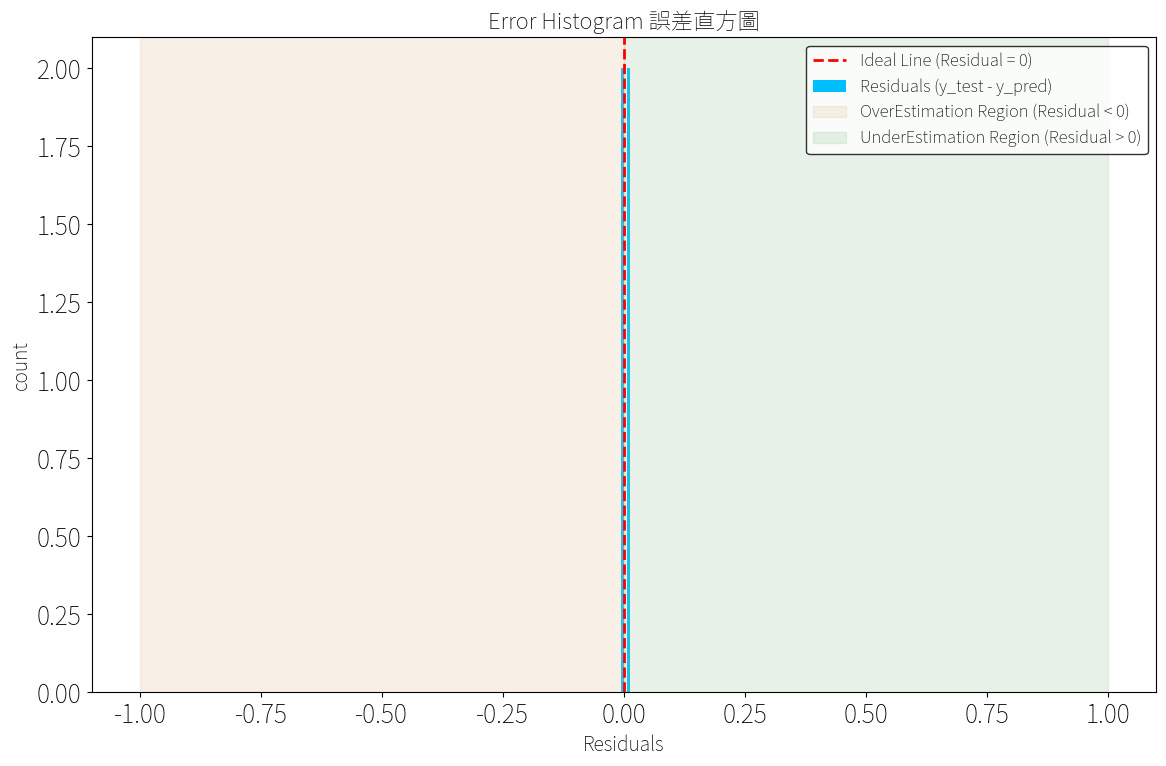
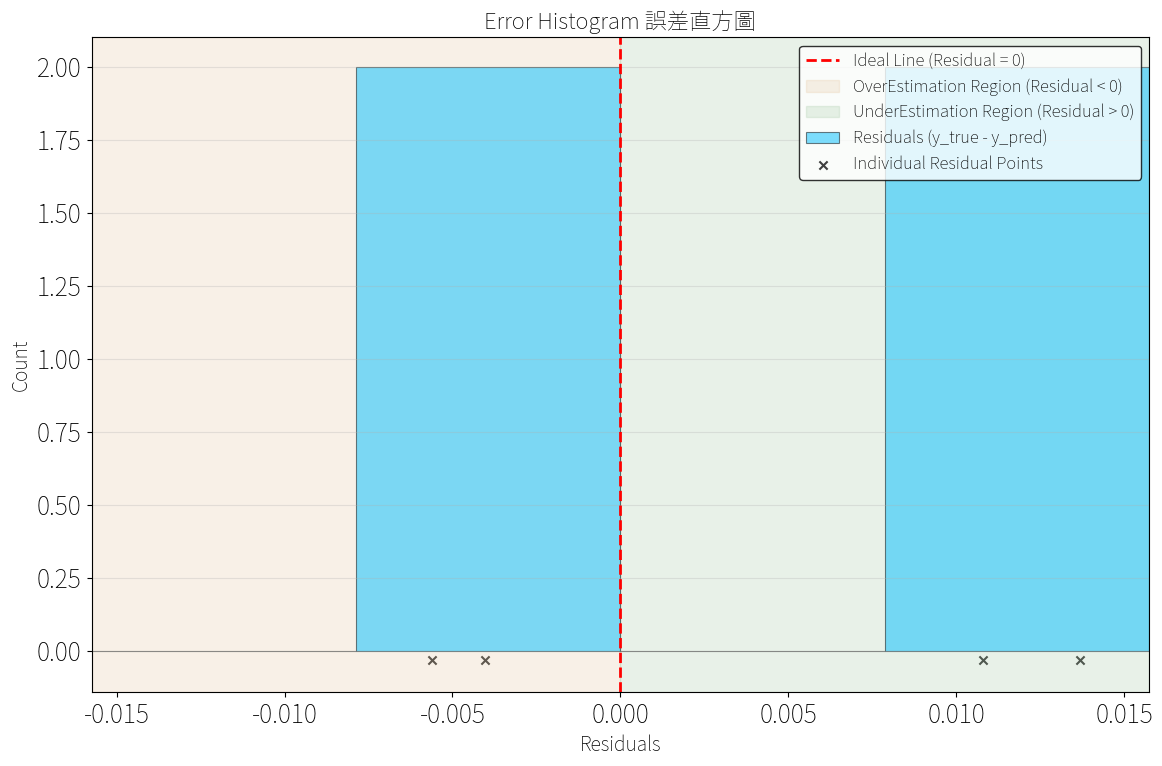
2026/06/09 generate_original_metrics_from_model.py ＝讀取既有模型後，重新輸出圖表、normalized metrics、original-scale metrics、prediction_compare.csv save.py ＝統一處理圖表、log.txt、metrics_original_scale.txt、prediction_compare.csv

diff --git a/utils/save.py b/utils/save.py
@@ -278,22 +278,31 @@ def ErrorHistogram(y_test_time: np.array, y_pred_test_time: np.array, out_dir: s
     residuals = y_true - y_pred # 計算殘差：正值代表模型低估，負值代表模型高估
     r_min = np.nanmin(residuals)
     r_max = np.nanmax(residuals)
-    # 加一點 margin，並確保 0 被包含進顯示範圍
+    # # 以 0 為中心建立對稱範圍，讓圖比較穩定好讀；加一點 margin，並確保 0 被包含進顯示範圍
     r_abs_max = max(abs(r_min), abs(r_max))
-    margin = r_abs_max * 0.1 if r_abs_max > 0 else 0.1
-    axis_min = min(r_min - margin, -margin)
-    axis_max = max(r_max + margin, margin)
-    plt.hist(residuals, bins='auto', color='deepskyblue', label='Residuals (y_true - y_pred)') # 柱狀圖，並讓Matplotlib自動計算bins區間。
-    plt.axvline(x=0, color='red', linestyle='--', linewidth=2, label='Ideal Line (Residual = 0)') # 基準線，加一條紅色的垂直基準線，位於Residual為0的地方。
+    margin = r_abs_max * 0.15 if r_abs_max > 0 else 0.1
+    axis_min = -r_abs_max - margin
+    axis_max = r_abs_max + margin
+    # 小樣本時不要用 bins='auto'，改用固定數量
+    n = len(residuals)
+    bin_count = max(5, min(12, n + 1))
+    bins = np.linspace(axis_min, axis_max, bin_count)
     # 填充Overestimation區域（Residual < 0）
-    plt.axvspan(axis_min, 0, color='burlywood', alpha=0.2, label='OverEstimation Region (Residual < 0)')  # 當 Residual < 0 時，表示實際值 < 預測值（高估）。
+    plt.axvspan(axis_min, 0, color='burlywood', alpha=0.2, label='OverEstimation Region (Residual < 0)')  # 當 Residual < 0 時，表示實際值 < 預測值（高估）。    
     # 填充Underestimation區域（Residual > 0）
-    plt.axvspan(0, axis_max, color='darkseagreen', alpha=0.2, label='UnderEstimation Region (Residual > 0)')  # 當 Residual > 0 時，表示實際值 > 預測值（低估）。
+    plt.axvspan(0, axis_max, color='darkseagreen', alpha=0.2, label='UnderEstimation Region (Residual > 0)')  # 當 Residual > 0 時，表示實際值 > 預測值（低估）。    
+    
+    plt.hist(residuals, bins=bins, color='deepskyblue', alpha=0.5, edgecolor='black', linewidth=0.8, label='Residuals (y_true - y_pred)') # 柱狀圖，並讓Matplotlib自動計算bins區間。 # -- 'auto'    
+    # 每個 residual 加上小點，讓小樣本分布更清楚
+    plt.scatter(residuals, np.full_like(residuals, -0.03), color='black', s=35, alpha=0.75, marker='x', label='Individual Residual Points' )
+    # Residual = 0 基準線
+    plt.axvline(x=0, color='red', linestyle='--', linewidth=2, label='Ideal Line (Residual = 0)') # 基準線，加一條紅色的垂直基準線，位於Residual為0的地方。
     plt.xlim(axis_min, axis_max)
     title = 'Error Histogram 誤差直方圖'
     plt.title(title, fontsize=16)
     plt.xlabel('Residuals', fontsize=14)
-    plt.ylabel('count', fontsize=14)
+    plt.ylabel('Count', fontsize=14)
+    plt.grid(axis='y', alpha=0.3)
     plt.legend(loc='best', fontsize=12, frameon=True, edgecolor='black', fancybox=True)
     plt.tight_layout()
     plt.savefig(path.join(out_dir, 'Error Histogram.png'), bbox_inches='tight') # 保存圖像
@@ -351,18 +360,19 @@ def save_original_scale_metrics(y_true_norm, y_pred_norm, data_dir_path: str, ou
     print(f"R2_original   : {r2_original:.6f}")
 
     # 存成 CSV，方便後續做表格
-    original_pred_path = path.join(out_dir, "prediction_original_scale.csv")
+    original_pred_path = path.join(out_dir, "prediction_compare.csv")
     np.savetxt(
         original_pred_path,
         np.column_stack([
             y_true_norm_2d.reshape(-1),
             y_pred_norm_2d.reshape(-1),
+            y_true_norm_2d.reshape(-1) - y_pred_norm_2d.reshape(-1),
             y_true_original,
             y_pred_original,
             y_true_original - y_pred_original
         ]),
         delimiter=",",
-        header="y_true_norm,y_pred_norm,y_true_original,y_pred_original,residual_original",
+        header="y_true_norm,y_pred_norm,residual_norm,y_true_original,y_pred_original,residual_original",
         comments="",
         fmt="%.6f"
     )

diff --git a/generate_original_metrics_from_model.py b/generate_original_metrics_from_model.py
@@ -21,7 +21,7 @@ from notebook.make_sliding_windows import make_sliding_windows
 
 def parse_arguments():
     ap = argparse.ArgumentParser(
-        description="Generate original-scale metrics from an existing trained model."
+        description="Generate plots and original-scale metrics from an existing trained model."
     )
 
     ap.add_argument("--dataset-path", required=True, type=str)
@@ -50,8 +50,14 @@ def main():
 
     makedirs(out_dir, exist_ok=True)
 
+    if not path.exists(dataset_path):
+        raise FileNotFoundError(f"找不到 dataset path: {dataset_path}")
+
+    if not path.exists(model_path):
+        raise FileNotFoundError(f"找不到 model path: {model_path}")
+
     print("=" * 100)
-    print("Generate original-scale metrics from existing model")
+    print("Generate plots and original-scale metrics from existing model")
     print(f"Dataset path : {dataset_path}")
     print(f"Model path   : {model_path}")
     print(f"Output dir   : {out_dir}")
@@ -90,21 +96,44 @@ def main():
         horizon=1
     )
 
+    if len(X_eval_w) == 0:
+        raise ValueError(
+            f"sliding window 數量為 0，請檢查 period={period} 是否大於 evaluation data 長度。"
+        )
+
     print("X_eval_w:", X_eval_w.shape)
     print("y_eval_w:", y_eval_w.shape)
 
     best_model = load_model(model_path, custom_objects={"rmse": rmse})
+    # # 4. Predict
     y_pred = best_model.predict(X_eval_w, batch_size=1)
 
-    # 重新輸出 normalized-scale 圖表與指標
+    # 4-1. Save normalized-scale prediction CSV
+    # normalized_csv_path = path.join(
+    #     out_dir,
+    #         f"prediction_normalized_scale_{args['eval_mode']}.csv"
+    #     )
+    # np.savetxt(
+    #     normalized_csv_path,
+    #     np.column_stack([
+    #         np.asarray(y_eval_w).reshape(-1),
+    #         np.asarray(y_pred).reshape(-1),
+    #         np.asarray(y_eval_w).reshape(-1) - np.asarray(y_pred).reshape(-1)
+    #     ]),
+    #     delimiter=",",
+    #     header="y_true_norm,y_pred_norm,residual_norm",
+    #     comments="",
+    #     fmt="%.6f"
+    # )
+
+    # 5. Save normalized-scale plots and metrics / 重新輸出 normalized-scale 圖表與指標
     save_prediction_plot(y_eval_w, y_pred, out_dir)
     save_yy_plot(y_eval_w, y_pred, out_dir)
     save_mse(y_eval_w, y_pred, out_dir, model=best_model)
     ResidualPlot(y_eval_w, y_pred, out_dir)
     ErrorHistogram(y_eval_w, y_pred, out_dir)
-
     print("y_pred:", y_pred.shape)
-
+    # 6. Save original-scale metrics
     metric_args = {
         "dataset_path": dataset_path,
         "model_path": model_path,
@@ -124,8 +153,17 @@ def main():
         json.dump(metric_args, f, indent=4, ensure_ascii=False)
 
     print("\nDone.")
-    print(f"Saved: {path.join(out_dir, 'metrics_original_scale.txt')}")
-    print(f"Saved: {path.join(out_dir, 'prediction_original_scale.csv')}")
+    metrics_path = path.join(out_dir, "metrics_original_scale.txt")
+    compare_path = path.join(out_dir, "prediction_compare.csv")
+    if path.exists(metrics_path):
+        print(f"Saved: {metrics_path}")
+    else:
+        print(f"Skipped: {metrics_path}")
+
+    if path.exists(compare_path):
+        print(f"Saved: {compare_path}")
+    else:
+        print(f"Skipped: {compare_path}")
 
 
 if __name__ == "__main__":
